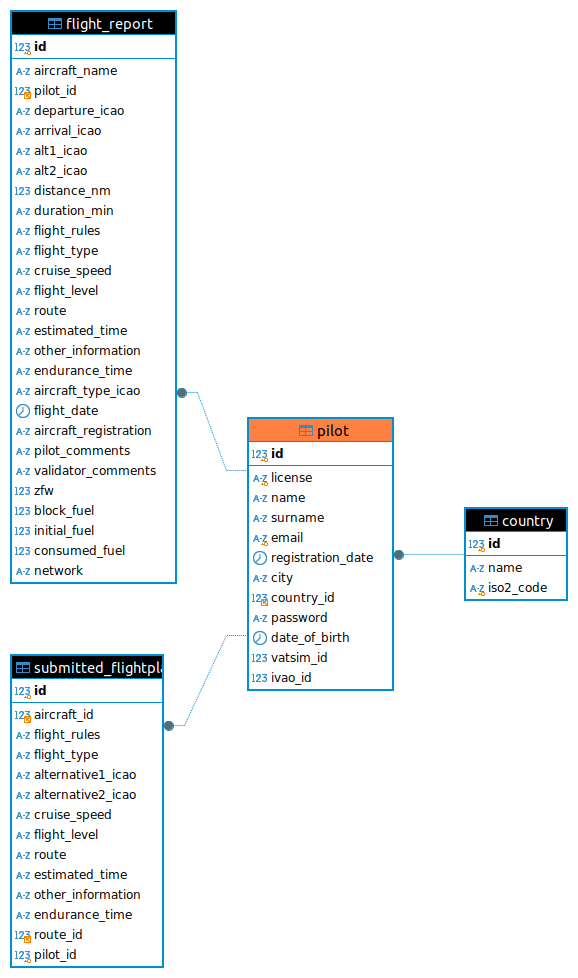
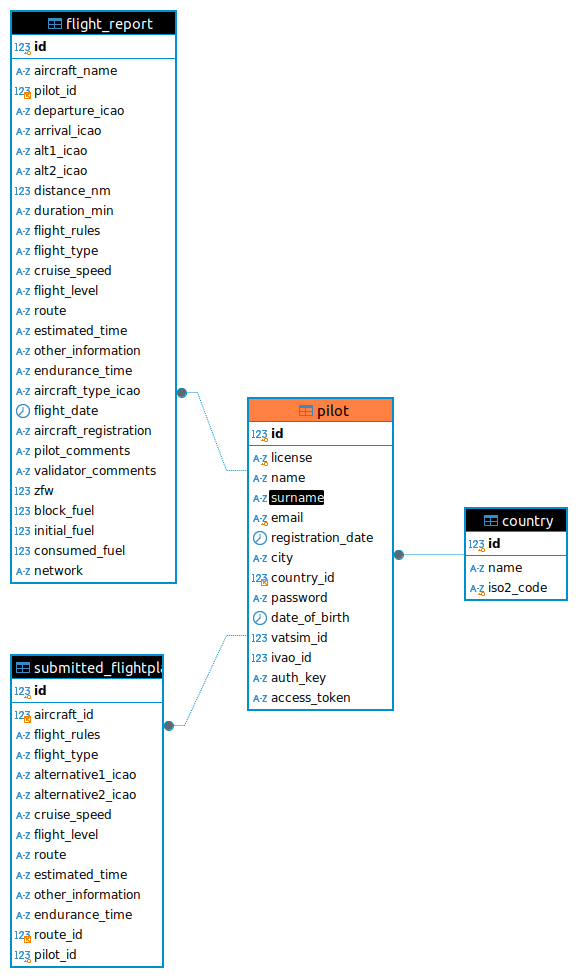
Basic login with Pilot Class

Changed region(s): [[0.4048, 0.3988, 0.6851, 0.7362], [0.654, 0.7055, 0.6851, 0.7362]]

diff --git a/basic/models/Pilot.php b/basic/models/Pilot.php
@@ -19,12 +19,14 @@ use Yii;
  * @property string $date_of_birth
  * @property int|null $vatsim_id
  * @property int|null $ivao_id
+ * @property string|null $auth_key
+ * @property string|null $access_token
  *
  * @property Country $country
  * @property FlightReport[] $flightReports
  * @property SubmittedFlightplan $submittedFlightplan
  */
-class Pilot extends \yii\db\ActiveRecord
+class Pilot extends \yii\db\ActiveRecord implements \yii\web\IdentityInterface
 {
     /**
      * {@inheritdoc}
@@ -48,7 +50,8 @@ class Pilot extends \yii\db\ActiveRecord
             [['surname', 'city'], 'string', 'max' => 40],
             [['email'], 'string', 'max' => 80],
             [['email'], 'email'],
-            [['password'], 'string', 'max' => 255],
+            [['password'], 'string', 'max' => 255], // TODO: Ensure complex password inputs before hash
+            [['auth_key', 'access_token'], 'string', 'max' => 32],
             [['email'], 'unique'],
             [['license'], 'unique'],
             [['country_id'], 'exist', 'skipOnError' => true, 'targetClass' => Country::class, 'targetAttribute' => ['country_id' => 'id']],
@@ -73,6 +76,8 @@ class Pilot extends \yii\db\ActiveRecord
             'date_of_birth' => 'Date Of Birth',
             'vatsim_id' => 'Vatsim ID',
             'ivao_id' => 'Ivao ID',
+            'auth_key' => 'Auth Key',
+            'access_token' => 'Access Token',
         ];
     }
 
@@ -105,4 +110,80 @@ class Pilot extends \yii\db\ActiveRecord
     {
         return $this->hasOne(SubmittedFlightplan::class, ['pilot_id' => 'id']);
     }
+
+    /**
+     * {@inheritdoc}
+     */
+    public static function findByLicense($license)
+    {
+        return static::findOne(['license' => $license]);
+    }
+
+    /**
+     * {@inheritdoc}
+     */
+    public static function findIdentity($id)
+    {
+        return static::findOne($id);
+    }
+
+    /**
+     * {@inheritdoc}
+     */
+    public static function findIdentityByAccessToken($token, $type = null)
+    {
+        return static::findOne(['access_token' => $token]);
+    }
+
+    /**
+     * @return int|string current user ID
+     */
+    public function getId()
+    {
+        return $this->id;
+    }
+
+    /**
+     * @return string|null current user auth key
+     */
+    public function getAuthKey()
+    {
+        return $this->auth_key;
+    }
+
+    /**
+     * @param string $authKey
+     * @return bool|null if auth key is valid for current user
+     */
+    public function validateAuthKey($authKey)
+    {
+        return $this->getAuthKey() === $authKey;
+    }
+
+    /**
+     * Validates password
+     *
+     * @param string $password password to validate
+     * @return bool if password provided is valid for current user
+     */
+    public function validatePassword($password)
+    {
+        return Yii::$app->getSecurity()->validatePassword($password, $this->password);
+    }
+
+    public function beforeSave($insert)
+    {
+        if (parent::beforeSave($insert)) {
+            if ($this->isNewRecord) {
+                // TODO: Period of validation and ensure password could be modified later (is only hashed in the first time)
+                $this->auth_key = \Yii::$app->security->generateRandomString(32);
+                $this->access_token = \Yii::$app->security->generateRandomString(32);
+                $this->password = Yii::$app->getSecurity()->generatePasswordHash($this->password);
+            }
+            return true;
+        }
+        return false;
+    }
+
+
 }

diff --git a/basic/views/pilot/_form.php b/basic/views/pilot/_form.php
@@ -20,15 +20,17 @@ use yii\widgets\ActiveForm;
 
     <?= $form->field($model, 'email')->textInput(['maxlength' => true]) ?>
 
-    <?= $form->field($model, 'registration_date')->textInput() ?>
+    <!-- TODO REMOVE AND IF AN ADMIN CREATE A USER SEND AN EMAIL WITH THE PASSWORD -->
+    <?= $form->field($model, 'password')->passwordInput(['maxlength' => true]) ?>
+
+    <?= $form->field($model, 'country_id')->dropdownList(
+            $countries,
+            ['prompt'=>'Select Country']
+        ); ?>
 
     <?= $form->field($model, 'city')->textInput(['maxlength' => true]) ?>
 
-    <?= $form->field($model, 'country_id')->textInput() ?>
-
-    <?= $form->field($model, 'password')->passwordInput(['maxlength' => true]) ?>
-
-    <?= $form->field($model, 'date_of_birth')->textInput() ?>
+    <?= $form->field($model, 'date_of_birth')->input('date') ?>
 
     <?= $form->field($model, 'vatsim_id')->textInput(['maxlength' => true]) ?>
 

diff --git a/basic/views/layouts/main.php b/basic/views/layouts/main.php
@@ -48,7 +48,7 @@ $this->registerLinkTag(['rel' => 'icon', 'type' => 'image/x-icon', 'href' => Yii
                 : '<li class="nav-item">'
                     . Html::beginForm(['/site/logout'])
                     . Html::submitButton(
-                        'Logout (' . Yii::$app->user->identity->username . ')',
+                        'Logout (' . Yii::$app->user->identity->license . ')',
                         ['class' => 'nav-link btn btn-link logout']
                     )
                     . Html::endForm()

diff --git a/basic/views/site/login.php b/basic/views/site/login.php
@@ -45,11 +45,6 @@ $this->params['breadcrumbs'][] = $this->title;
 
             <?php ActiveForm::end(); ?>
 
-            <div style="color:#999;">
-                You may login with <strong>admin/admin</strong> or <strong>demo/demo</strong>.<br>
-                To modify the username/password, please check out the code <code>app\models\User::$users</code>.
-            </div>
-
         </div>
     </div>
 </div>

diff --git a/basic/controllers/PilotController.php b/basic/controllers/PilotController.php
@@ -123,8 +123,11 @@ class PilotController extends Controller
             $model->loadDefaultValues();
         }
 
+        $countries = Country::find()->select(['name'])->indexBy('id')->column();
+
         return $this->render('create', [
             'model' => $model,
+            'countries' => $countries,
         ]);
     }
 

diff --git a/basic/models/LoginForm.php b/basic/models/LoginForm.php
@@ -73,7 +73,7 @@ class LoginForm extends Model
     public function getUser()
     {
         if ($this->_user === false) {
-            $this->_user = User::findByUsername($this->username);
+            $this->_user = Pilot::findByLicense($this->username);
         }
 
         return $this->_user;

diff --git a/basic/config/web.php b/basic/config/web.php
@@ -20,7 +20,7 @@ $config = [
             'class' => 'yii\caching\FileCache',
         ],
         'user' => [
-            'identityClass' => 'app\models\User',
+            'identityClass' => 'app\models\Pilot',
             'enableAutoLogin' => true,
         ],
         'errorHandler' => [

diff --git a/basic/views/pilot/view.php b/basic/views/pilot/view.php
@@ -37,7 +37,6 @@ $this->params['breadcrumbs'][] = $this->title;
             'registration_date',
             'city',
             'country_id',
-            'password',
             'date_of_birth',
             'vatsim_id',
             'ivao_id',

diff --git a/basic/views/pilot/create.php b/basic/views/pilot/create.php
@@ -15,6 +15,7 @@ $this->params['breadcrumbs'][] = $this->title;
 
     <?= $this->render('_form', [
         'model' => $model,
+        'countries' => $countries,
     ]) ?>
 
 </div>
